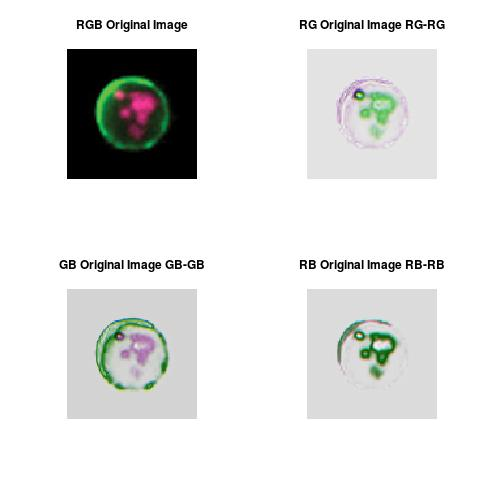
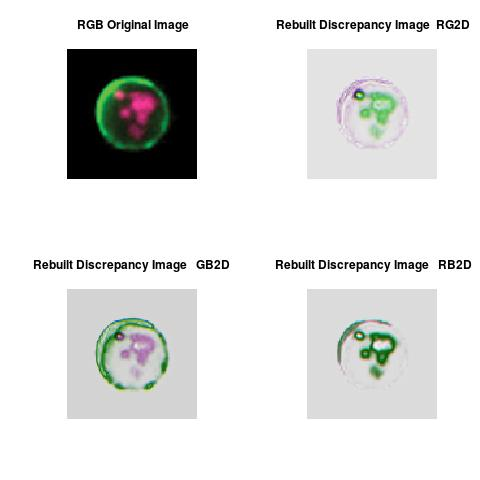
Initial commit

diff --git a/SocioEconomicEcosystem/IFCCDTDIDDLP.html b/SocioEconomicEcosystem/IFCCDTDIDDLP.html
@@ -76,10 +76,10 @@ git commit -m "Initial commit"
 
 <header>
     <body style="background-color:lightgrey;">
-    <h2 style="color:black">  Imaging Flow Cytometry </h2>
+    <h2 style="color:black">  Imaging Flow Cytometry (IFC) </h2>
     <h4 style="color:green">   Sensitivity Resolution  Image Quality  </h4>
     <h4 style="color:green">   CCD Camera in Time-Delay Integration  </h4>
-     <h2 style="color:black">  Using Deep Discrepancy Learning Process </h2>
+     <h2 style="color:black">  Using Deep Discrepancy Learning Process (DDLP) </h2>
     <div>
     <a target="alone"  href="https://github.com/efaysal" style="color:black"> Faysal.El.Khettabi@gmail.com </a>
      </div> 
@@ -90,9 +90,18 @@ git commit -m "Initial commit"
         <ul></ul>
     </nav>
     <section>
-  <h1> Iterpretation of <a target="alone"  href=" "> Imaging Flow Cytometry Using Deep Discrepancy Learning Process  </a> </a> </h1>      
-
-    <a target="alone"  href="http://pubs.rsc.org/en/content/articlehtml/2016/lc/c6lc01063f?page=search">  Imaging Flow Cytometry </a>  
+  <h1> Iterpretation of <a target="alone"  href=" "> IFC Using DDLP </a> </a> </h1>      
+  The <a target="alone"  href="http://www.emdmillipore.com/CA/en/life-science-research/cell-analysis/amnis-imaging-flow-cytometers/how-it-works/ccd-camera-in-time-delay-integration/2zGb.qB.RYEAAAFLaDkp.zIG,nav">  CCD Camera in Time-Delay Integration</a> is able to empower the detection sensitivity to preserves the resolution and image quality in fast-moving objects. 
+  The cell is flowing as a 3D object, the instrument is able to adjust the speed of the cell with its internal velocity detection and as the cell is moving fast, the chance to spin during that short period of time is really minimal. Thus the instrument is able to map a three-dimensional object to a two-dimensional plane (the obtained image) by focusing on one side of the cell, as long as the cell does not spin, during its passage  and the process of image acquisition. 
+ <br>   <br> 
+ By using a dedicated marker to stain the membrane of the cell  and a second marker to stain the nucleus. The instrument is able to construct an image of the cell as a 2D image where the areas(cytoplasm) between the membrane and nucleus are represented in an overlapping fashion. 
+ <br>   <br>
+  Our Deep Discrepancy Learning Process is typically used to locate objects and boundaries in the obtained image. More precisely, the process assigns to every pixel in the image a kind of score if the pixel shares certain characteristics or discrepancies, i.e. the pixel colors are either uniformly, clumped or scarce. 
+ <br>   <br>
+  This framework was able to give insight about color distribution of the pixels and to allow access to many levels of information about image content. The results showed that the discrepancy framework captured the reflected pattern in the 2D image data 
+  and to provide a set of segments that collectively cover the entire image, or a set of contours extracted from the image, background, membrane, cytoplasm and nucleus. 
+ <br>   <br>
+  Each of the pixels in a region are similar with respect to some characteristic in the image data and show some discrepancies to other pixels, i.e. able to define adjacent regions. The discrepancy framework is an image segmentation of the primary image and are used to create 2D reconstruction of the flowing cell, see Figures with label "Rebuilt Discrepancy Image" as illustration.
 
 <br>   <br> 
  <h1> <a target="alone"  href="http://www.emdmillipore.com/CA/en/life-science-research/cell-analysis/amnis-imaging-flow-cytometers/applications/cell-signaling/nmab.qB..j4AAAFLJUcp.zYi,nav">  Cell Signaling </a> </h1>
@@ -150,8 +159,6 @@ Molecular trans-location of transcription factors from the cytoplasm to the nucl
     </div>
 </div>
 <br>   <br> 
-
-
  <h1> <a target="alone"  href="http://www.emdmillipore.com/CA/en/life-science-research/cell-analysis/amnis-imaging-flow-cytometers/applications/morphology/EKKb.qB.XQEAAAFL5XQp.zYt,nav"> Morphology Analysis</a> </h1>
 Distinguishing cells based on their morphologic differences is useful in the study of stem cell differentiation, hematology and oncology, and chemokine-induced shape change ... 
 <div class="image12">

diff --git a/SocioEconomicEcosystem/IMAGECFLOWCYTOMETRYCONTENTANALYTICS.html b/SocioEconomicEcosystem/IMAGECFLOWCYTOMETRYCONTENTANALYTICS.html
@@ -116,7 +116,7 @@ We are open to Interesting Opportunity supporting the publication of all element
 Thanks and much appreciated.
 
 <br>   <br> 
- <h1> <a target="alone"  href="http://www.emdmillipore.com/CA/en/life-science-research/cell-analysis/amnis-imaging-flow-cytometers/applications/cell-signaling/nmab.qB..j4AAAFLJUcp.zYi,nav">  Cell Signaling </a> </h1>
+ <h1> <a target="alone"  href="http://www.emdmillipore.com/CA/en/life-science-research/cell-analysis/amnis-imaging-flow-cytometers/applications/cell-signaling/nmab.qB..j4AAAFLJUcp.zYi,nav">  Cell Signaling </a>  ( <a target="alone"  href="efaysal.github.io/SocioEconomicEcosystem/IFCCDTDIDDLP.html"  style="color:green">  See Our Interpretation </a> )          </h1>
 
 Molecular trans-location of transcription factors from the cytoplasm to the nucleus is a pivotal event in many processes critical to cellular activation, differentiation, and host defense. Existing methods used to measure nuclear trans-location have significant limitations. 
 
@@ -141,7 +141,9 @@ Molecular trans-location of transcription factors from the cytoplasm to the nucl
     </div>
 </div>
 <br>   <br> 
- <h1> <a target="alone"  href="http://www.emdmillipore.com/CA/en/life-science-research/cell-analysis/amnis-imaging-flow-cytometers/applications/cell-death-and-autophagy/kV6b.qB.kTwAAAFLthEp.zYr,nav"> Cell-Death and Autophagy</a> </h1>
+ <h1> <a target="alone"  href="http://www.emdmillipore.com/CA/en/life-science-research/cell-analysis/amnis-imaging-flow-cytometers/applications/cell-death-and-autophagy/kV6b.qB.kTwAAAFLthEp.zYr,nav"> Cell-Death and Autophagy</a> ( <a target="alone"  href="efaysal.github.io/SocioEconomicEcosystem/IFCCDTDIDDLP.html"  style="color:green">  See Our Interpretation </a> )  </h1>
+
+
   Cell death and survival, morphological characterization by microscopy remains the gold standard for accurately identifying the various types of cell death using characteristics such as nuclear condensation, nuclear fragmentation, membrane blebbing, cell shrinkage or swelling. In some cases cell death is preceded by an attempt at survival by autophagy and is identified by the clustering of the phagolysosome membrane-associated protein LC3. 
 
 <div class="image12">
@@ -190,7 +192,8 @@ Molecular trans-location of transcription factors from the cytoplasm to the nucl
 </div>
 <br>   <br> 
 
- <h1> <a target="alone"  href="http://www.emdmillipore.com/CA/en/life-science-research/cell-analysis/amnis-imaging-flow-cytometers/applications/morphology/EKKb.qB.XQEAAAFL5XQp.zYt,nav"> Morphology Analysis</a> </h1>
+ <h1> <a target="alone"  href="http://www.emdmillipore.com/CA/en/life-science-research/cell-analysis/amnis-imaging-flow-cytometers/applications/morphology/EKKb.qB.XQEAAAFL5XQp.zYt,nav"> Morphology Analysis</a> ( <a target="alone"  href="efaysal.github.io/SocioEconomicEcosystem/IFCCDTDIDDLP.html"  style="color:green">  See Our Interpretation </a> ) </h1>
+ 
 Distinguishing cells based on their morphologic differences is useful in the study of stem cell differentiation, hematology and oncology, and chemokine-induced shape change ... 
 <div class="image12">
     <div class="imgContainer">
